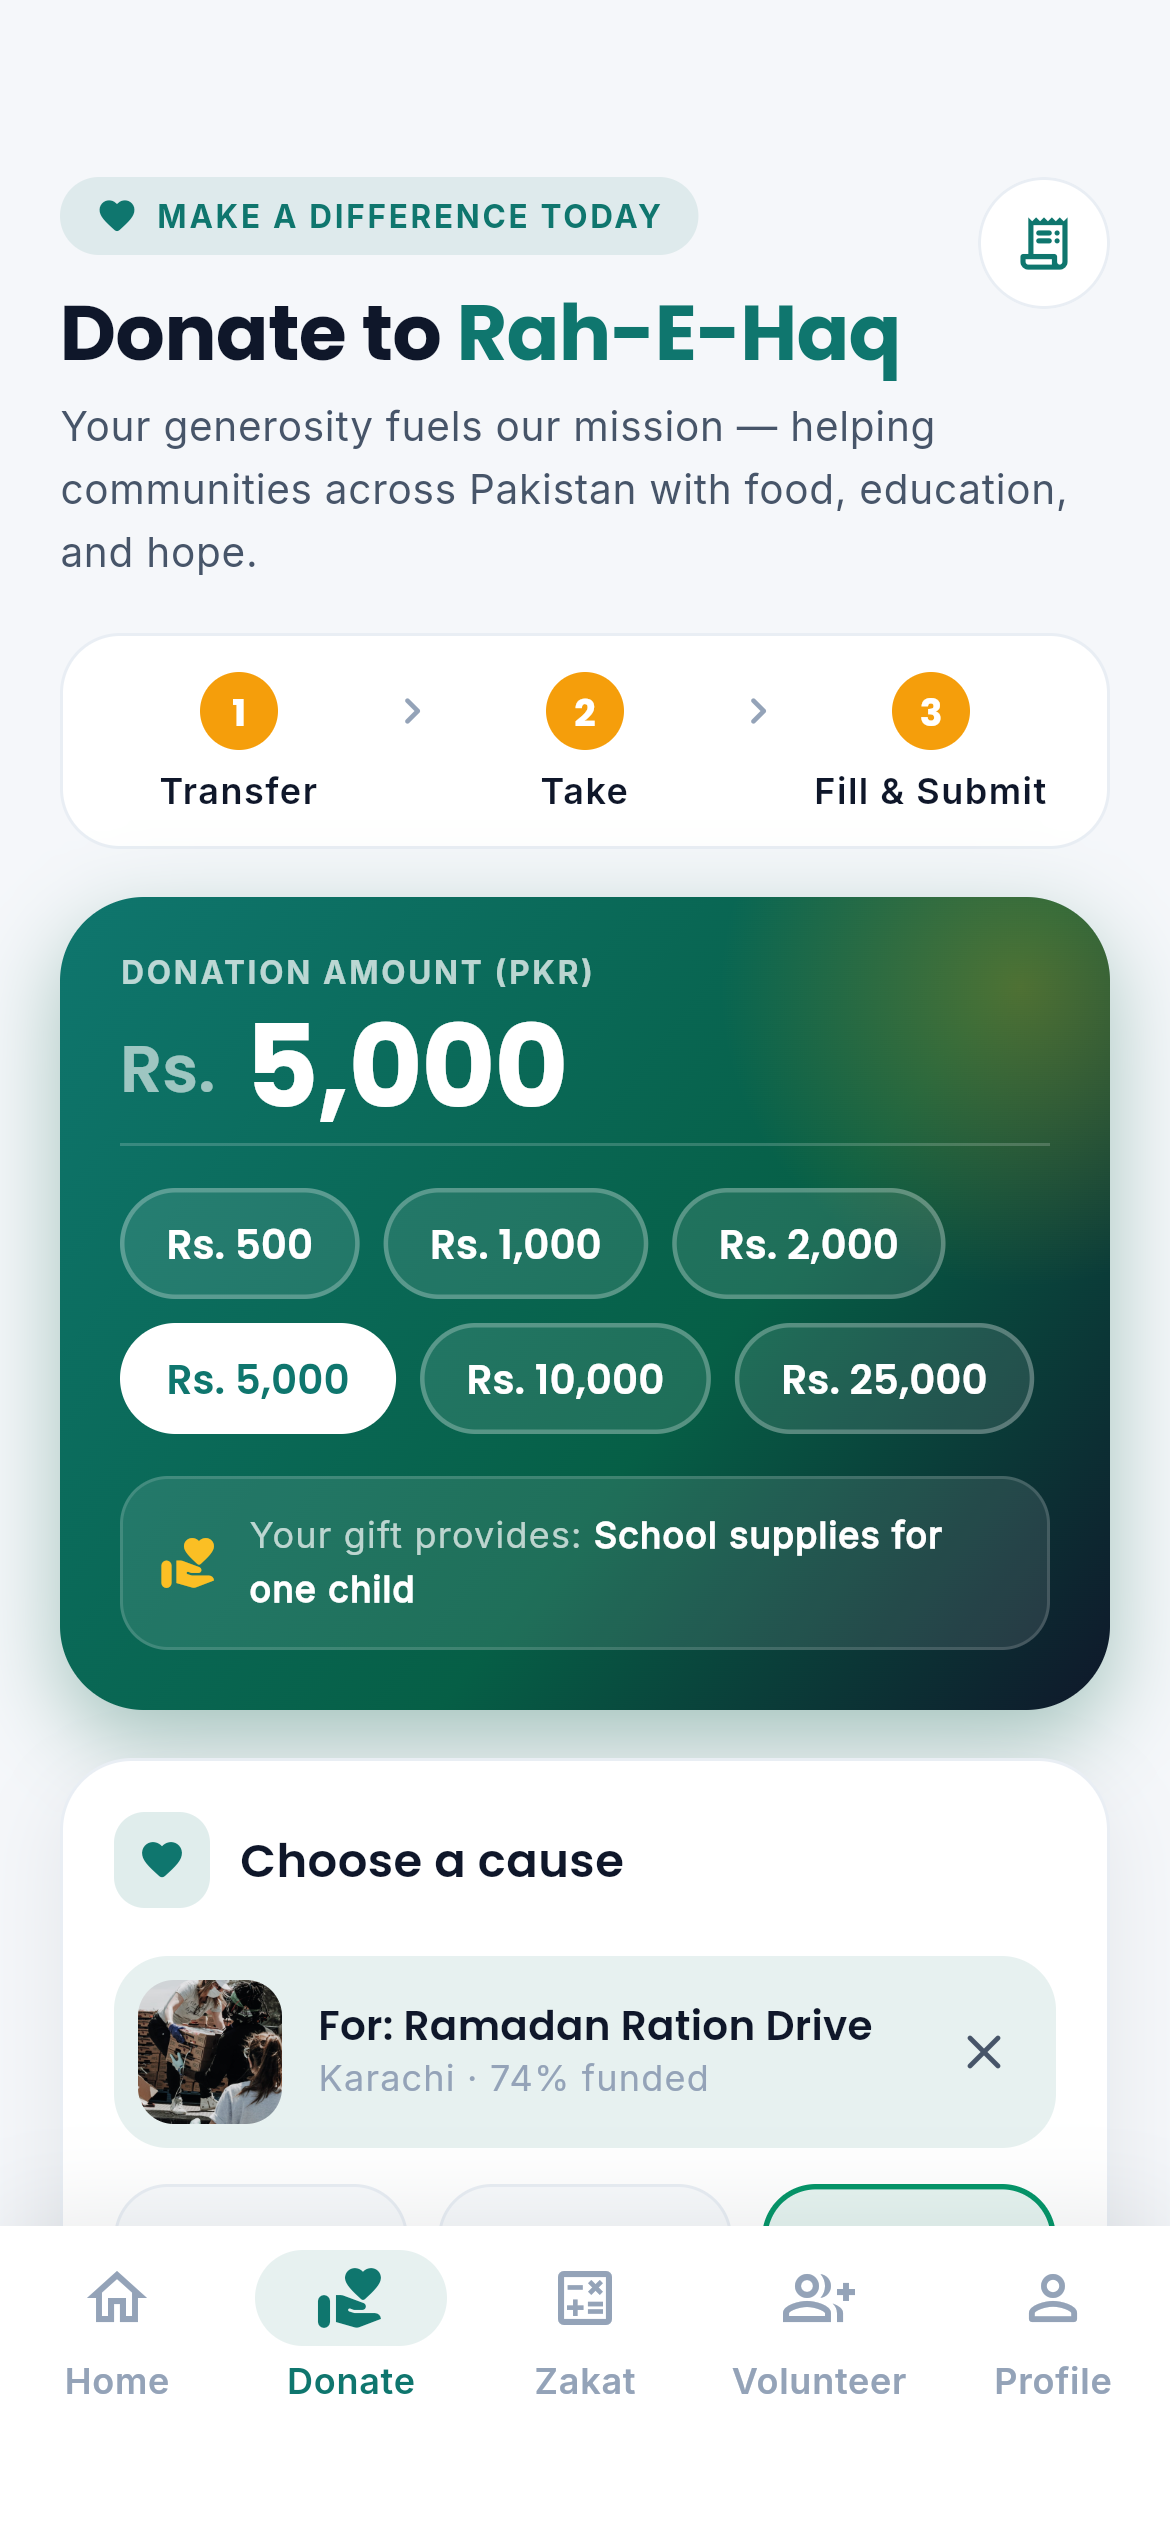
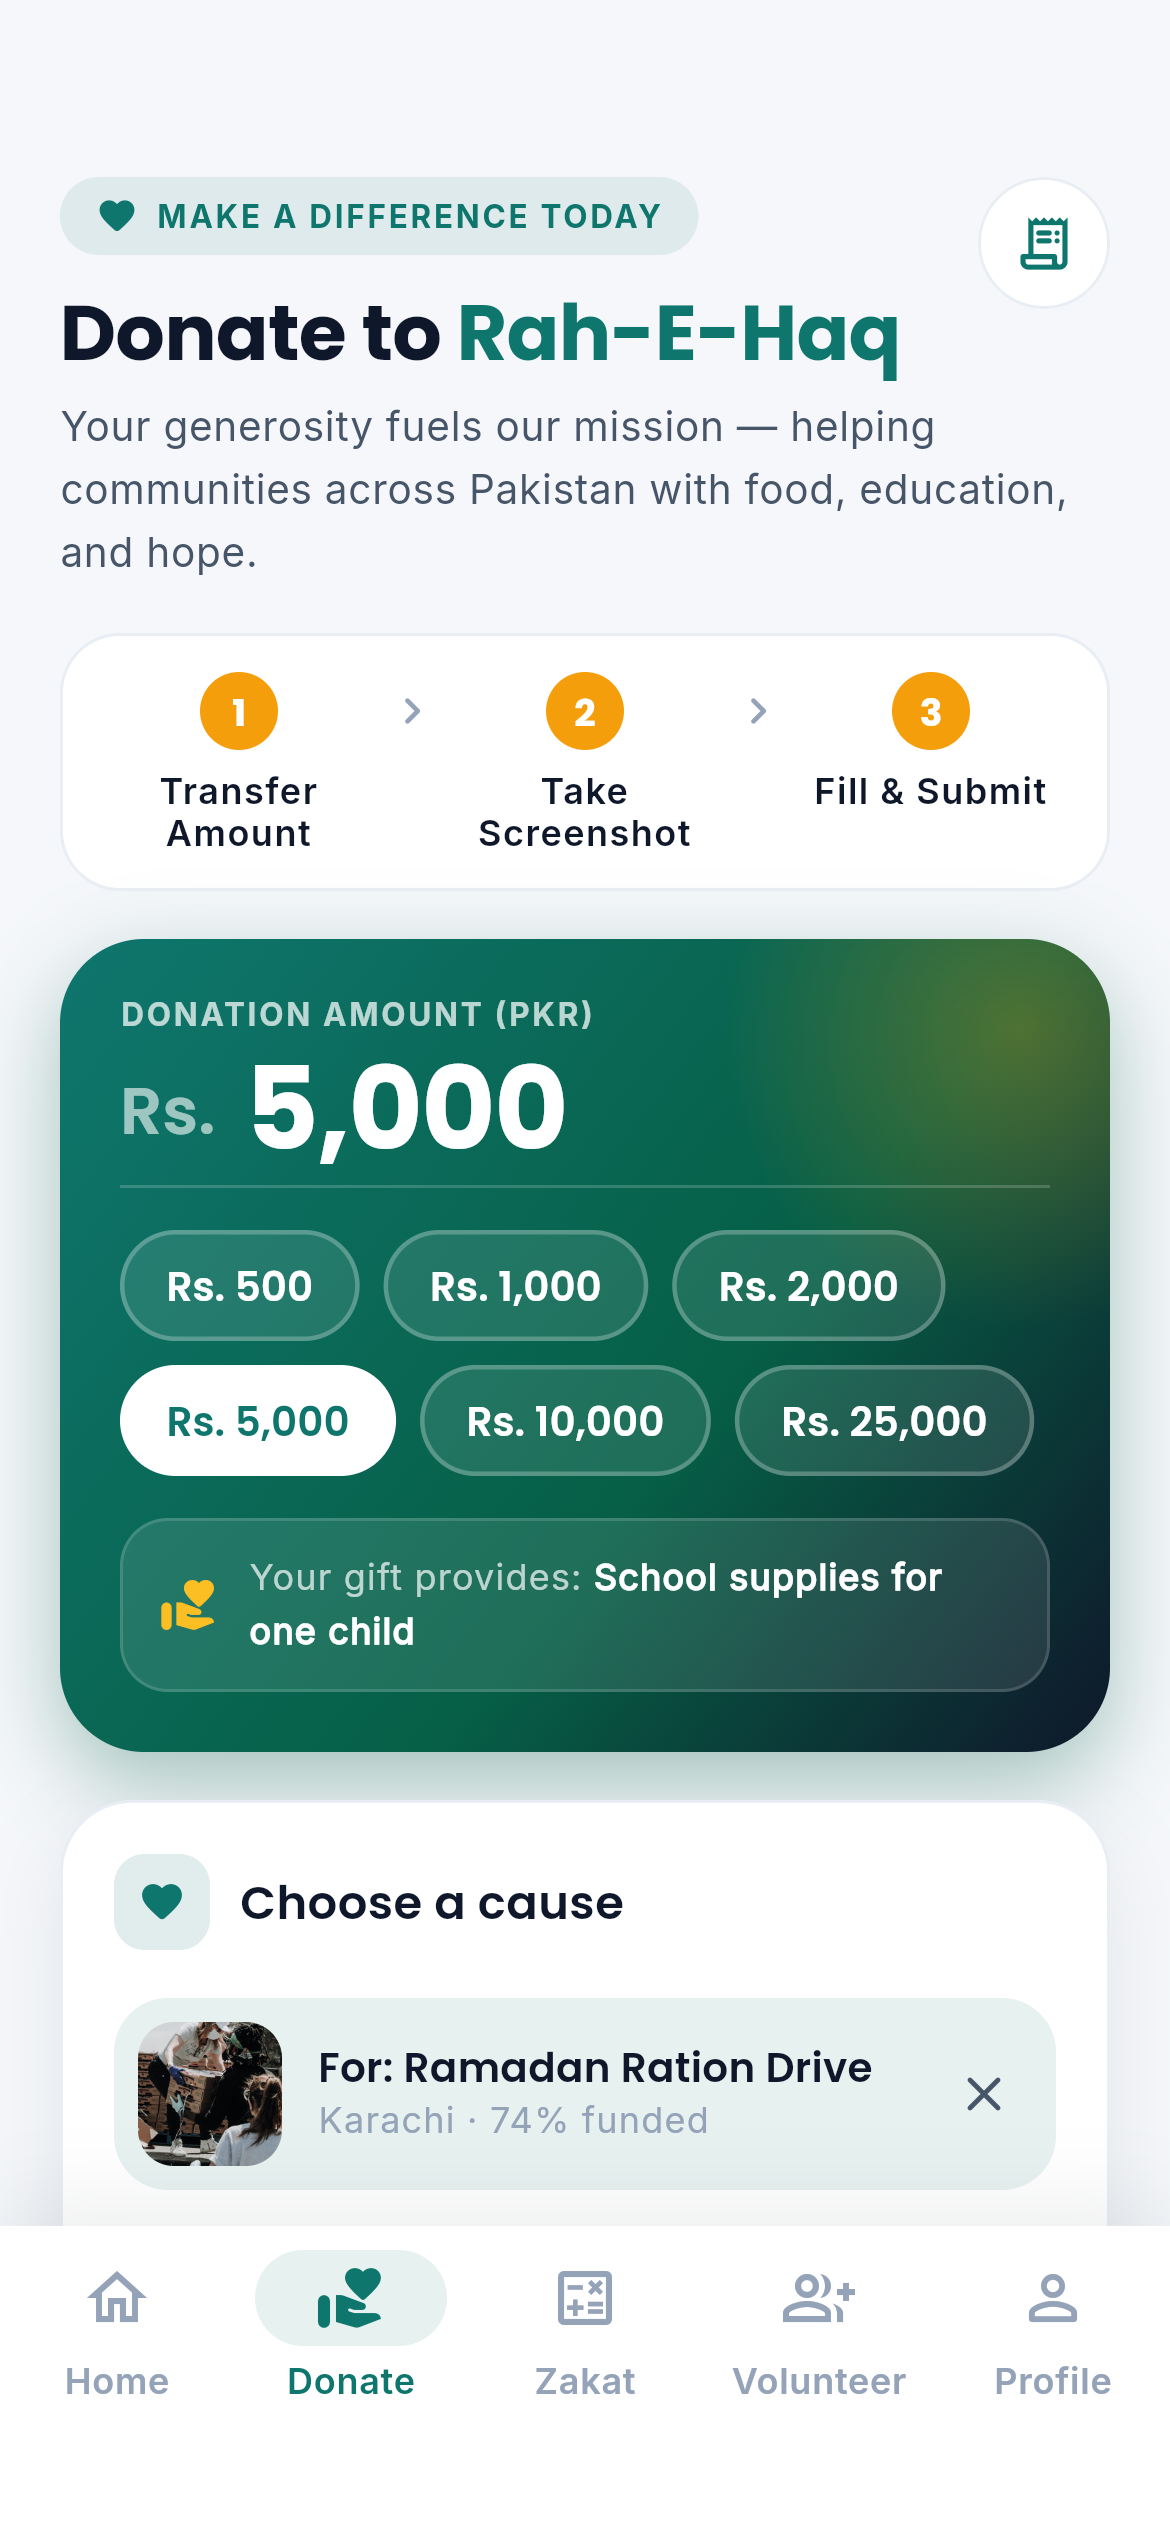
Polish screens (work in progress)

Changed region(s): [[0.0308, 0.312, 0.9538, 0.8736]]

diff --git a/README.md b/README.md
@@ -1,17 +1,82 @@
-# rah_e_haq_app
+# Rah-E-Haq — Donation App
 
-A new Flutter project.
+Flutter mobile companion to the **Rah-E-Haq** NGO donation platform (React + Express +
+MongoDB). It brings the platform's donate, Zakat and volunteer flows to the phone, uses
+the same brand (teal `#0f766e`, amber `#f59e0b`, Poppins / Inter / Noto Nastaliq Urdu),
+and ships every screen in English and Urdu with full right-to-left layout.
 
-## Getting Started
+There is no backend. All content is sample data in Dart, and every account number, phone
+number and email in it is a placeholder.
 
-This project is a starting point for a Flutter application.
+## Features
 
-A few resources to get you started if this is your first Flutter project:
+- **Home**: gradient hero, impact counters, a carousel of active campaigns with
+  raised/goal progress, programme cards (tap one for details and a "donate to this cause"
+  shortcut), a success story and Donate / Volunteer calls to action.
+- **Campaigns**: a full list and a detail screen with progress, story and suggested gift
+  amounts that pre-fill the donate form.
+- **Donate**: quick amounts or a custom amount (with "your gift provides…" hints), cause
+  selection, bank transfer / JazzCash / Easypaisa with copyable account details, a mock
+  screenshot picker, validation and a confirmation that stays *pending admin verification*,
+  as on the web platform.
+- **Zakat calculator**: gold and silver in grams (converted to tolas), cash, savings,
+  business assets and debts. Nisab uses the silver standard (52.5 tola) at configurable
+  gold and silver rates, and Zakat due is 2.5% of net wealth, the same maths as the web
+  backend. The result updates live.
+- **Volunteer application**: a three-step form (personal → skills & interests →
+  availability & motivation) with a stepper, validation per step and a success summary.
+- **My donations**: history with Pending / Verified / Rejected filters and totals, plus a
+  receipt screen per donation with a verification timeline and the admin's note.
+- **Profile**: English ⇄ اردو switch, dark mode, links to donations, Zakat, volunteering,
+  **About** (mission, transparency figures, activities, photo gallery) and **Contact**
+  (copyable details, working hours, message form).
 
-- [Learn Flutter](https://docs.flutter.dev/get-started/learn-flutter)
-- [Write your first Flutter app](https://docs.flutter.dev/get-started/codelab)
-- [Flutter learning resources](https://docs.flutter.dev/reference/learning-resources)
+## Run it
 
-For help getting started with Flutter development, view the
-[online documentation](https://docs.flutter.dev/), which offers tutorials,
-samples, guidance on mobile development, and a full API reference.
+```bash
+flutter pub get
+flutter run            # on a device or emulator
+flutter test           # smoke test + Zakat maths
+flutter build web --release --no-web-resources-cdn
+```
+
+### Deep links
+
+Every screen and demo state opens from a URL, which is how the portfolio screenshots
+are taken:
+
+| URL | Opens |
+| --- | --- |
+| `/` | Home |
+| `/campaigns`, `/campaign/ramadan-ration-drive` | Campaign list / detail |
+| `/donate?demo=1` | Donate form, filled in |
+| `/donate?success=1` | Donation confirmation |
+| `/donate?cause=zakat&amount=52972` | Donate form, pre-filled |
+| `/zakat?demo=1` (`&rates=1`) | Calculator with a result (and the rates sheet) |
+| `/volunteer?demo=1` (`&step=3`, `success=1`) | Volunteer form mid-way |
+| `/profile/donations` (`?filter=pending`) | Donation history |
+| `/profile/donations/RAH-26-0954` | A receipt |
+| `/profile/about`, `/profile/contact` | About / Contact |
+
+Add `lang=ur` for Urdu, `theme=dark` for dark mode, and `shot=1` to simulate an iPhone's
+safe areas (47 px top, 34 px bottom).
+
+## Structure
+
+```
+lib/
+  main.dart            path URL strategy + runApp
+  app.dart             MaterialApp.router, theme, RTL Directionality, screenshot mode
+  router.dart          go_router: 5-tab StatefulShellRoute + detail routes
+  theme.dart           brand colours, fonts, light/dark ThemeData, palette extension
+  data/                strings (English + Urdu), sample data, formatting helpers
+  models/              donation, campaign, Zakat maths, volunteer application
+  state/               SettingsController, DonationsController, InheritedNotifier scopes
+  screens/             one file per screen
+  widgets/             buttons, cards, hero, chips, receipt preview, timeline
+assets/images/         photos and logo from the web platform (resized)
+test/                  widget smoke test and Zakat unit test
+```
+
+Packages: `go_router`, `google_fonts` (plus `flutter_web_plugins` from the SDK). State
+uses `ChangeNotifier` with `InheritedNotifier`.
